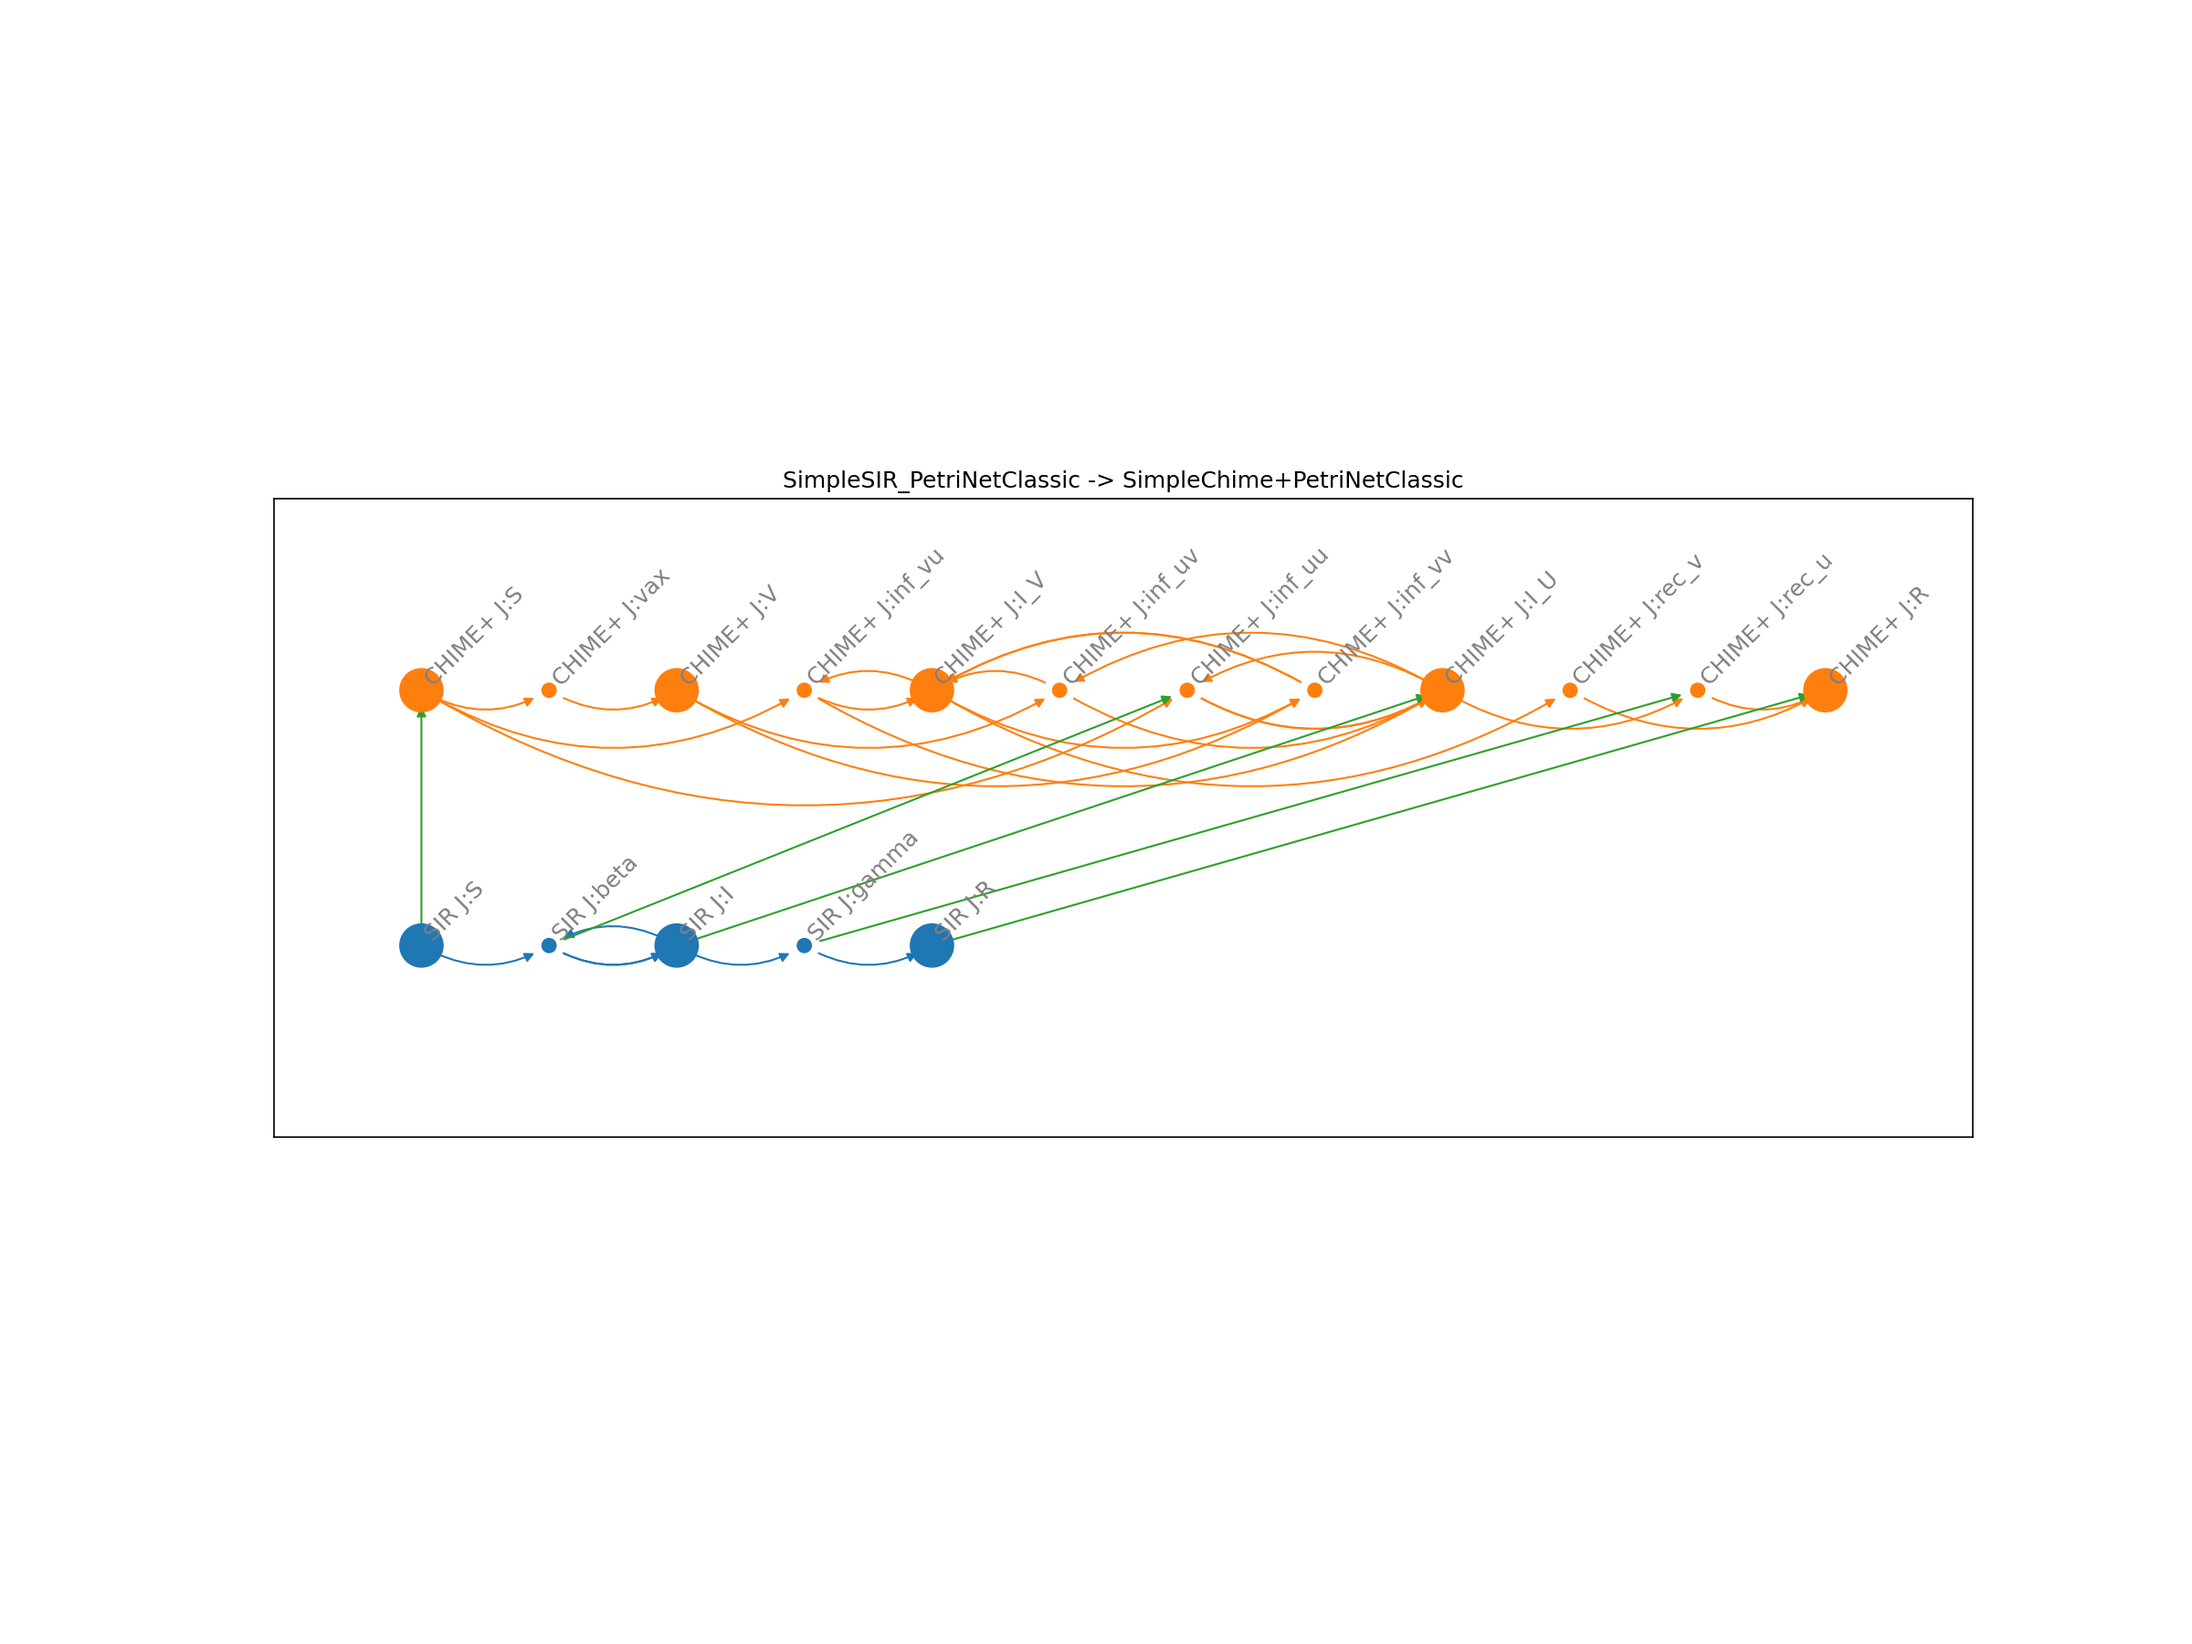
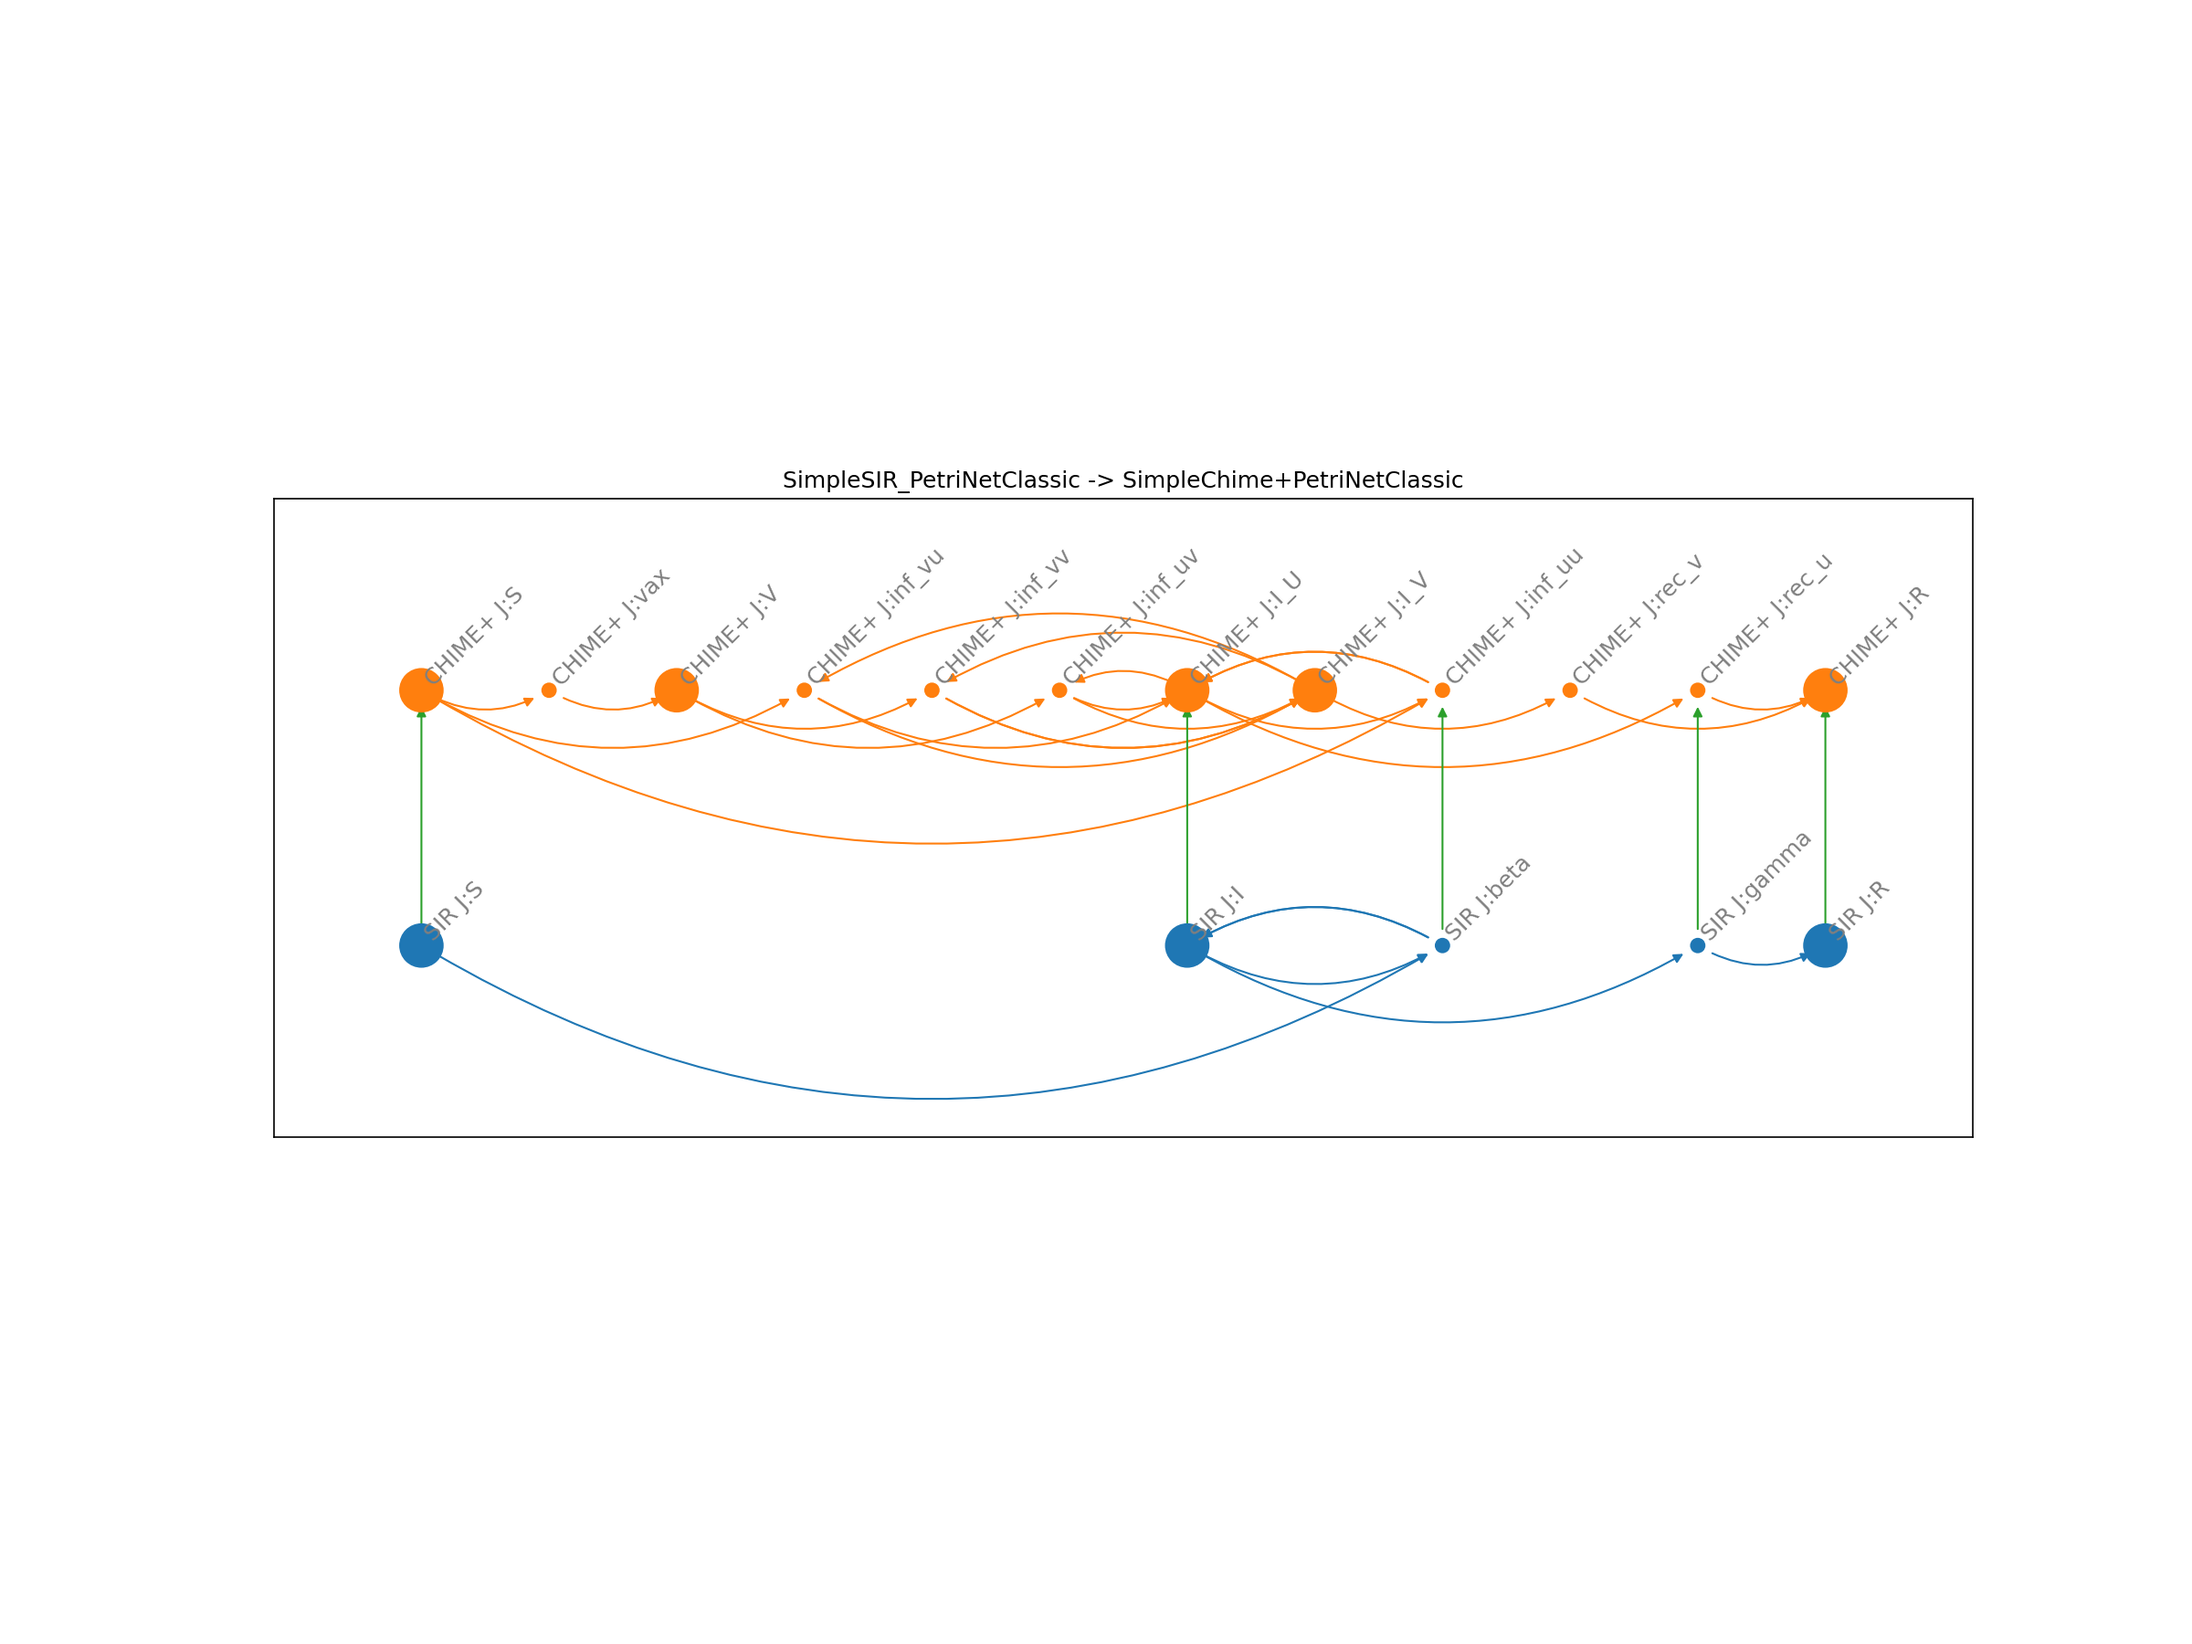
Updated model comparison code to align nodes

diff --git a/gromet/notebooks/6_model_comparison_GrFN.py b/gromet/notebooks/6_model_comparison_GrFN.py
@@ -189,7 +189,7 @@ def generate_linear_layout(G: Any, offset: Optional[Dict] = None, draw: Optional
 
 # %%
 # Draw NX Object
-def draw_graph(G: Any, pos: Dict, ax: Optional[Any] = None, node_args: Optional[Dict] = None, edge_args: Optional[Dict] = None, label_args: Optional[Dict] = None, G_full: Optional[Any] = None, label_key: Optional[str] = 'label') -> Any:
+def draw_graph(G: Any, pos: Dict, ax: Optional[Any] = None, node_args: Optional[Dict] = None, edge_args: Optional[Dict] = None, label_args: Optional[Dict] = None, legend_args: Optional[Dict] = None, G_full: Optional[Any] = None, label_key: Optional[str] = 'label') -> Any:
 
     if ax == None:
         fig, ax = plt.subplots(nrows = 1, ncols = 1, figsize = (20, 5))
@@ -216,7 +216,7 @@ def draw_graph(G: Any, pos: Dict, ax: Optional[Any] = None, node_args: Optional[
         edge_args = {
             'edge_color': 'tab:gray',
             'alpha': 0.5,
-            'connectionstyle': 'arc3,rad=0.2',
+            'connectionstyle': 'arc3,rad=0.15',
         }
 
     if label_args == None:
@@ -228,7 +228,24 @@ def draw_graph(G: Any, pos: Dict, ax: Optional[Any] = None, node_args: Optional[
             'labels': {node: G.nodes[node][label_key] for node in G.nodes},
         }
 
-    h_nodes = nx.draw_networkx_nodes(G, pos = pos, ax = ax, **node_args)
+    if legend_args == None:
+
+        if len(node_args) > 0:
+
+            legend_elements = [
+                mpl.lines.Line2D(
+                    [0], [0], marker = 'o', color = 'w', label = t, markersize = 20,
+                    markerfacecolor = node_cmap(node_norm(val))
+                ) for t, val in node_types.items()
+            ]
+
+            legend_args = {
+                'loc': 'lower right',
+                'ncol': len(legend_elements)
+            }
+
+    if len(node_args) > 0:
+        h_nodes = nx.draw_networkx_nodes(G, pos = pos, ax = ax, **node_args)
 
     if len(edge_args) > 0:
         h_edges = nx.draw_networkx_edges(G, pos = pos, ax = ax, **edge_args)
@@ -239,10 +256,13 @@ def draw_graph(G: Any, pos: Dict, ax: Optional[Any] = None, node_args: Optional[
 
     __ = plt.setp(ax, ylim = (-3, 3))
 
-    legend_elements = [mpl.lines.Line2D([0], [0], marker = 'o', color = 'w', label = t, markerfacecolor = node_cmap(node_norm(val)), markersize = 20) for t, val in node_types.items()]
-    ax.legend(handles = legend_elements, loc = 'lower right', ncol = len(legend_elements))
+    if len(legend_args) > 0:
+        # ax.legend(handles = legend_elements, loc = 'lower right', ncol = len(legend_elements))
+        ax.legend(handles = legend_elements, **legend_args)
+
 
     return None
+
 
 # %%
 # Generate linear layout that is layered by the parent-child hierarchy of the graph
@@ -319,37 +339,52 @@ __ = generate_linear_layout(G_sir_pnc, draw = True)
 pos_sir_pnc = generate_linear_layout_with_hierarchy(G_sir_pnc, draw = True)
 
 # %%
-# Comparison graph
-
+# Mock comparison graph
 G_union = nx.union(G, G_sir_pnc, rename = ('FN-', 'PNC-'))
-
-fig, ax = plt.subplots(nrows = 1, ncols = 1, figsize = (20, 5))
-
-x = {node: p + 2 * np.array([0, 1]) for node, p in pos.items()}
-y = {node: p - 2 * np.array([0, 1]) for node, p in pos_sir_pnc.items()}
-__ = draw_graph(G, pos = x, ax = ax, G_full = G_union, label_key = 'label')
-__ = draw_graph(G_sir_pnc, pos = y, ax = ax, G_full = G_union, label_key = 'label')
-
-
-# Mock comparison mapping
 edges = list(G_union.edges)
-G_union.remove_edges_from(edges)
-G_union.add_edges_from([
+edges_map = [
     ('PNC-0', 'FN-0'),
-    ('PNC-0::2', 'FN-0::7'),
-    ('PNC-0::5', 'FN-0::8'),
+    ('PNC-0::2', 'FN-0::1'),
+    ('PNC-0::5', 'FN-0::2'),
     ('PNC-0::3', 'FN-0::12'),
     ('PNC-0::9', 'FN-0::20'),
     ('PNC-0::11', 'FN-0::9'),
-])
-x = {'FN-' + node: val for node, val in x.items() if node != None}
-y = {'PNC-' + node: val for node, val in y.items() if node != None}
+]
+G_union.remove_edges_from(edges)
+G_union.add_edges_from(edges_map)
 
-__ = draw_graph(G = G_union, pos = {**x, **y}, ax = ax, label_args = {}, edge_args = {'edge_color': 'tab:cyan', 'alpha': 0.5, 'connectionstyle': 'arc3,rad=0.2'})
 
+# Parallel positions
+p = {node: p + 2 * np.array([0, 1]) for node, p in pos.items()}
+p_sir_pnc = {node: p - 2 * np.array([0, 1]) for node, p in pos_sir_pnc.items()}
+
+# Align mapped nodes
+for src, tgt, __ in G_union.edges:
+
+    src = ''.join(src.split('-')[1:])
+    tgt = ''.join(tgt.split('-')[1:])
+
+    # i = np.max([p_sir_pnc[src][0], p[tgt][0]])
+    # p_sir_pnc[src][0] = i
+    p_sir_pnc[src][0] = p[tgt][0]
+    # p[tgt][0] = i
+
+    print(f"{src} {tgt} {i}")
+
+
+fig, ax = plt.subplots(nrows = 1, ncols = 1, figsize = (20, 5))
+__ = draw_graph(G, pos = p, ax = ax, G_full = G_union, label_key = 'label')
+__ = draw_graph(G_sir_pnc, pos = p_sir_pnc, ax = ax, G_full = G_union, label_key = 'label')
+
+
+p = {'FN-' + node: val for node, val in p.items() if node != None}
+p_sir_pnc = {'PNC-' + node: val for node, val in p_sir_pnc.items() if node != None}
+pos_map = {**p, **p_sir_pnc}
+
+__ = draw_graph(G = G_union, pos = pos_map, ax = ax, node_args = {}, label_args = {}, legend_args = {}, edge_args = {'edge_color': 'tab:cyan', 'alpha': 0.5})
 __ = plt.setp(ax, ylim = (-3, 5))
 
-# fig.savefig(f'../figures/comparison_GrFN_PNC_linear.png', dpi = 150)
+fig.savefig(f'../figures/comparison_GrFN_PNC_linear.png', dpi = 150)
 
 fig = ax = None
 del fig, ax

diff --git a/gromet/notebooks/5_model_comparison_PNC.py b/gromet/notebooks/5_model_comparison_PNC.py
@@ -99,6 +99,17 @@ def compare_graphs(G1: Any, G2: Any, map: Optional[Dict], leg_id: Optional[int] 
                         pos_map[rn + j] = np.array([k, 2 * l])
                         k += 1
 
+
+            # Align mapped nodes along x-axis
+            for k, v in map['legs'][G2.graph['uid']][leg_id].items():
+
+                src = rename[0] + k
+                tgt = rename[1] + v
+
+                x = np.max([pos_map[src][0], pos_map[tgt][0]])
+                pos_map[src][0] = x
+                pos_map[tgt][0] = x
+
         else:
 
             # KK Layout
@@ -132,21 +143,8 @@ def compare_graphs(G1: Any, G2: Any, map: Optional[Dict], leg_id: Optional[int] 
             h = nx.draw_networkx_labels(G_map_subg, pos = pos_map, ax = ax, font_color = 'tab:gray', horizontalalignment = 'left', verticalalignment = 'bottom')
             __ = [t.set_rotation(45) for __, t in h.items()]
 
-
         G_map_sube = G_map.edge_subgraph([edge for edge in G_map.edges if G_map.nodes[edge[0]]['model_uid'] != G_map.nodes[edge[1]]['model_uid']])
         nx.draw_networkx_edges(G_map_sube, pos = pos_map, ax = ax, edge_color = 'tab:green')
-
-
-        # nx.draw(
-        #     G_map, pos = pos_map, 
-        #     node_size = node_size,
-        #     node_color = node_col, 
-        #     #cmap = 'tab10', vmin = 0, vmax = 9, 
-        #     edge_color = edge_col, 
-        #     # edge_cmap = 'tab10', edge_vmin = 0, edge_vmax = 9, 
-        #     with_labels = True, 
-        #     ax = ax
-        # )
 
         __ = plt.setp(ax, title = f"{G1.graph['uid']} -> {G2.graph['uid']}", aspect = 1.0, ylim = (-1.5, 3.5))
 
